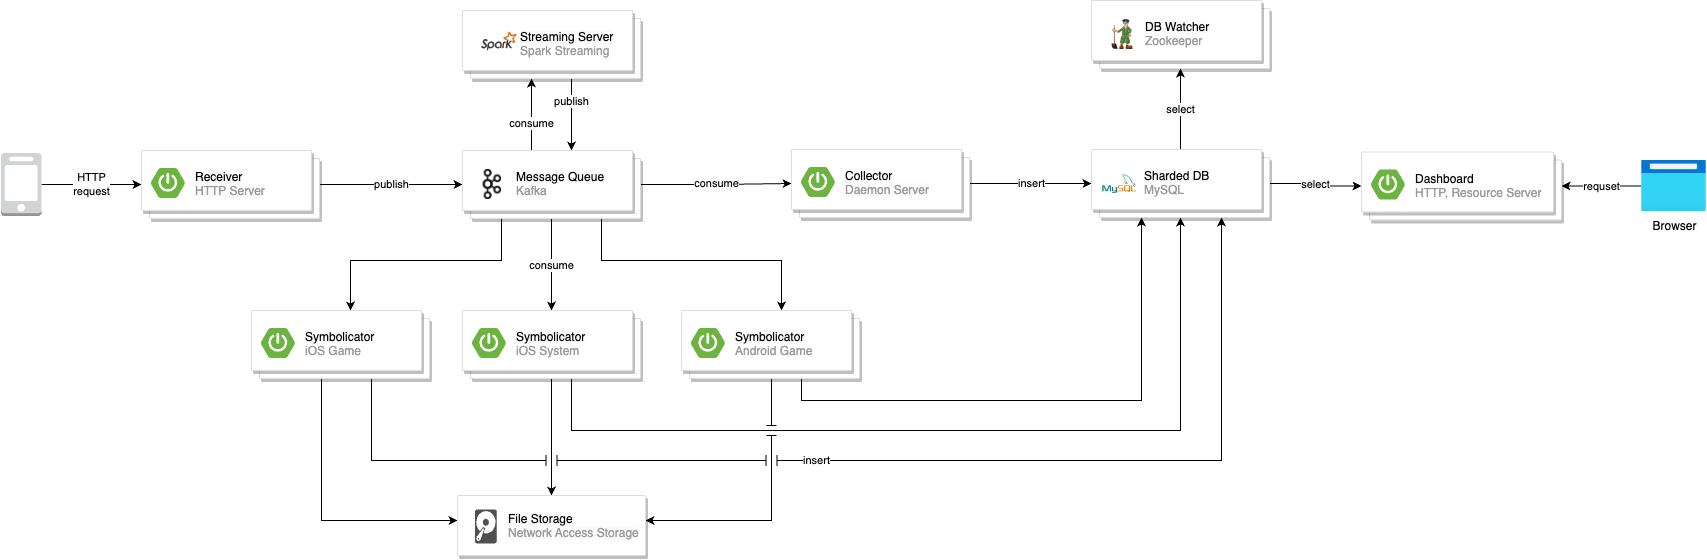
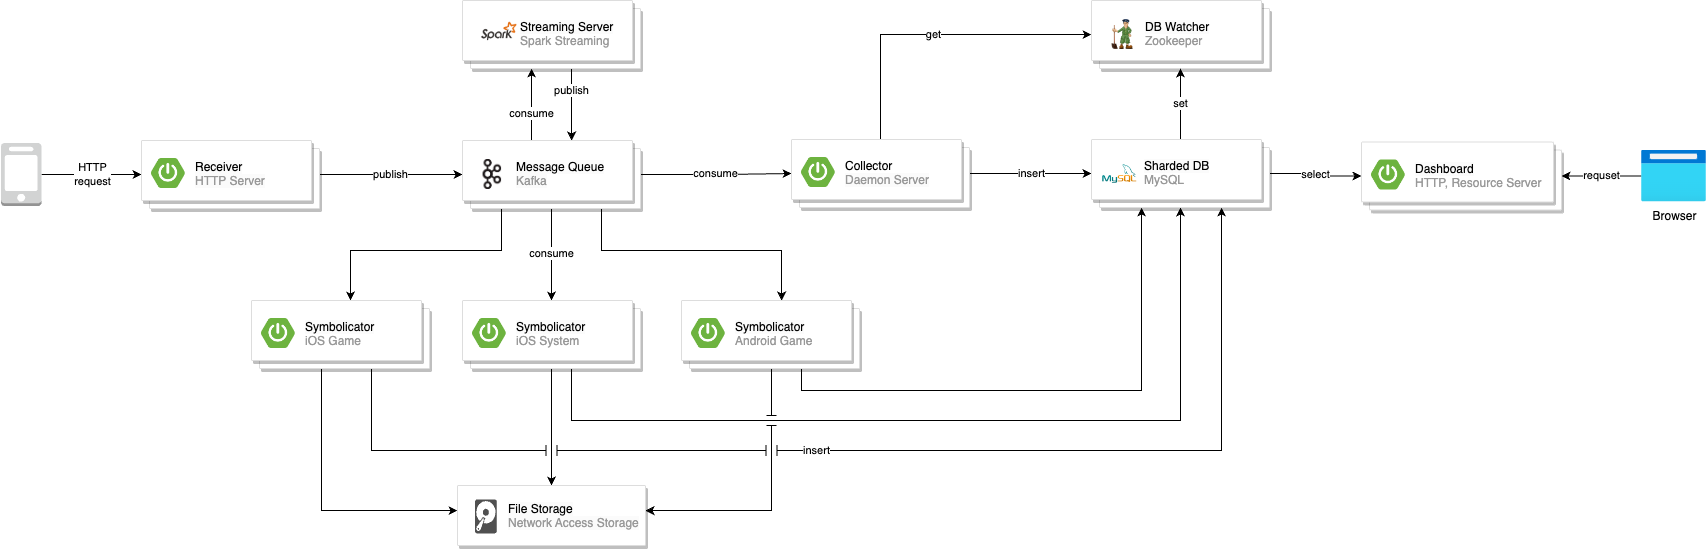
crashreport 완료

diff --git a/CrashReport/CrashReport.md b/CrashReport/CrashReport.md
@@ -51,6 +51,11 @@ style: |
 - 잦은 담당 조직 이동 및 운영 인원 축소
 
 ---
+# 기존
+
+![width:1100px](./crashreport_arch_asis.png)
+
+---
 # 배경
 - **수동 및 운영 업무**
   - 운영에 필요한 백엔드 인력 최소 3명
@@ -65,7 +70,7 @@ style: |
     - 샤딩키 수동 발급 -> 게임 론칭 및 클로징 시 직접 데이터 마이그레이션
     - 여러 대의 DB 관리를 위해 Zookeeper 서버 운영
     - Zookeeper 로부터 DB 정보를 가져오기 위해 모듈을 만들어 사용
-    - 모든 서버 컴포넌트에서 개별 DataStore Connection Pool 관리
+    - 모든 서버 컴포넌트에서 개별 DataSource Connection Pool 관리
 
 ---
 # 배경
@@ -91,17 +96,12 @@ style: |
 
 **수동 업무 개선**
 
-**운영 인력 감축**
-
 **레거시 코드와 테이블 제거**
 
 **성능 개선**
 
+**운영 인력 감축**
 
----
-# 기존
-
-![width:1100px](./crashreport_arch_asis.png)
 
 ---
 # 교훈과 벤치마킹
@@ -167,6 +167,10 @@ style: |
 - BigQuery, Data Studio 사용
 - 필요할 때마다 기간 별로 데이터 추출 X
 - 유저가 원하는 입맛대로 DataStudio 등을 사용하여 대시보드 구성도 가능
+
+---
+# 결과
+![bg height:700px](./crashreport_dashboard_overview.png)
 
 ---
 # 결과
